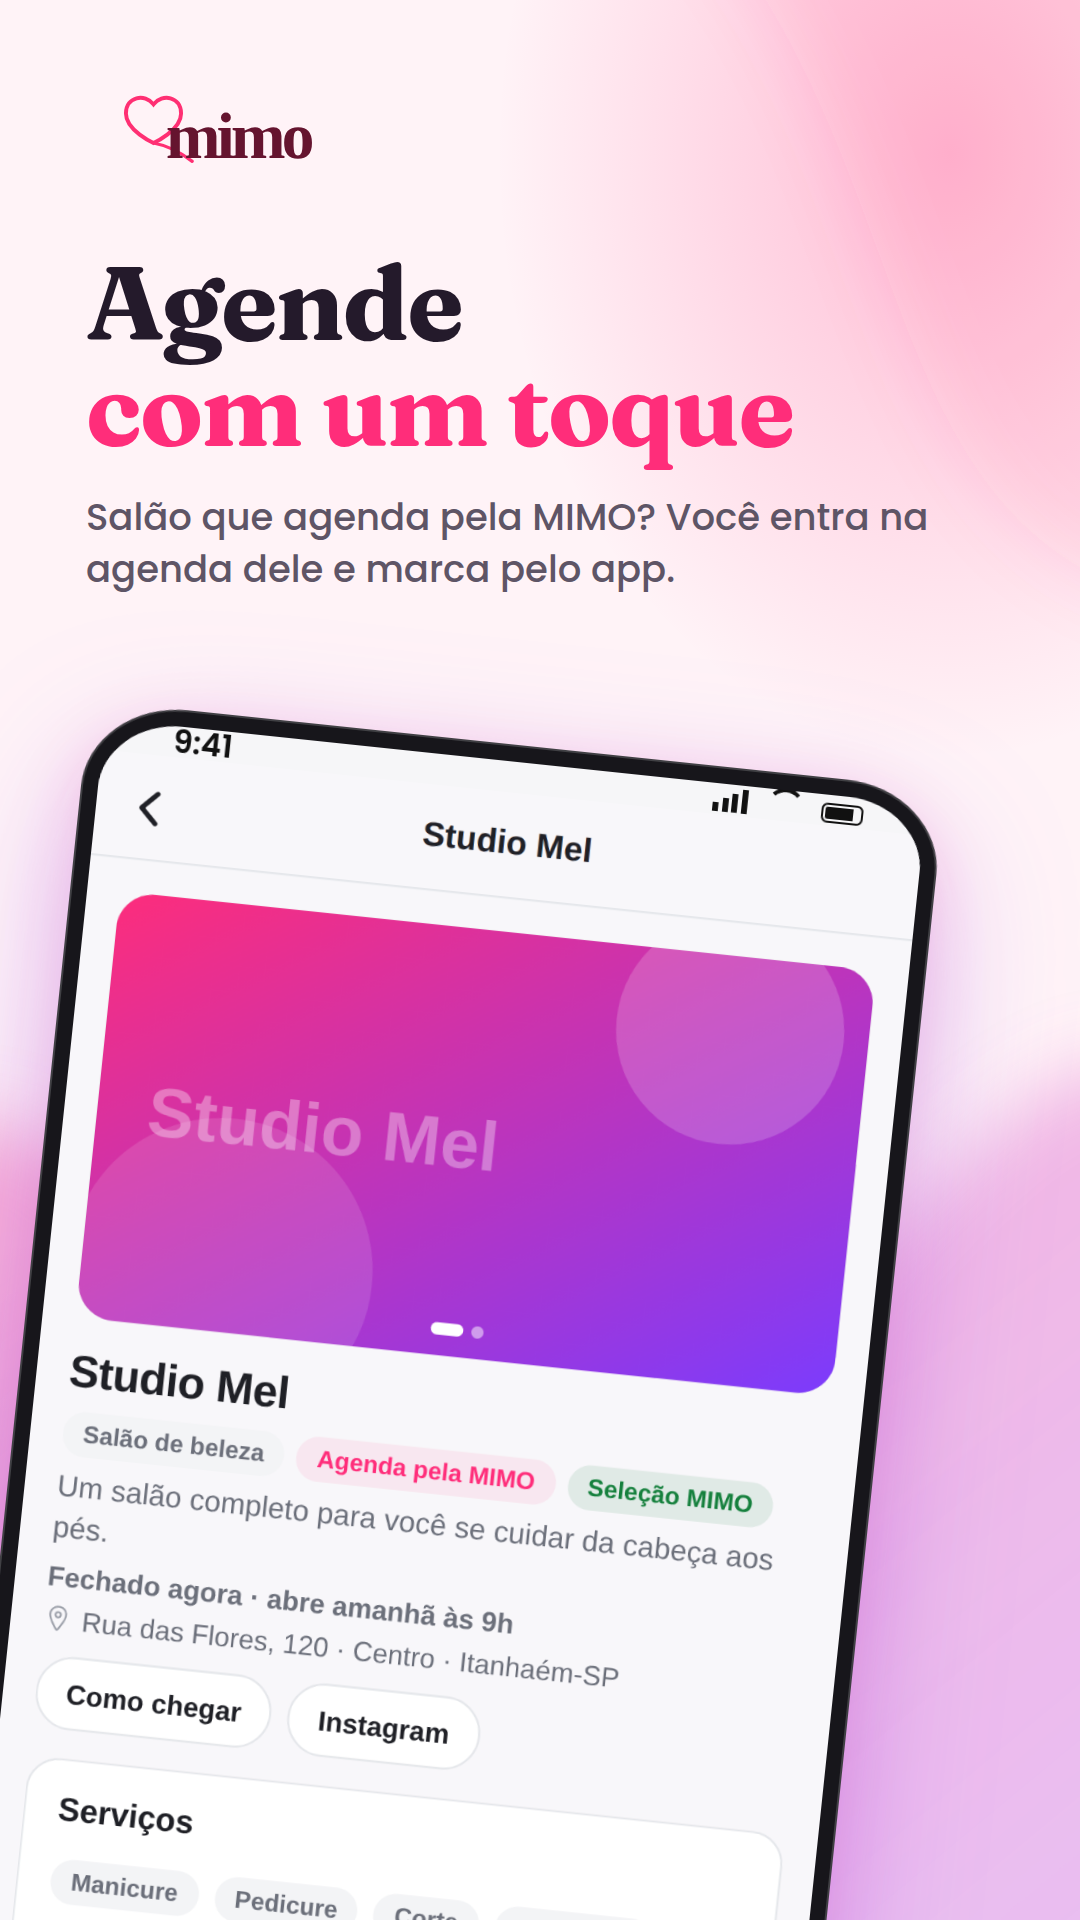
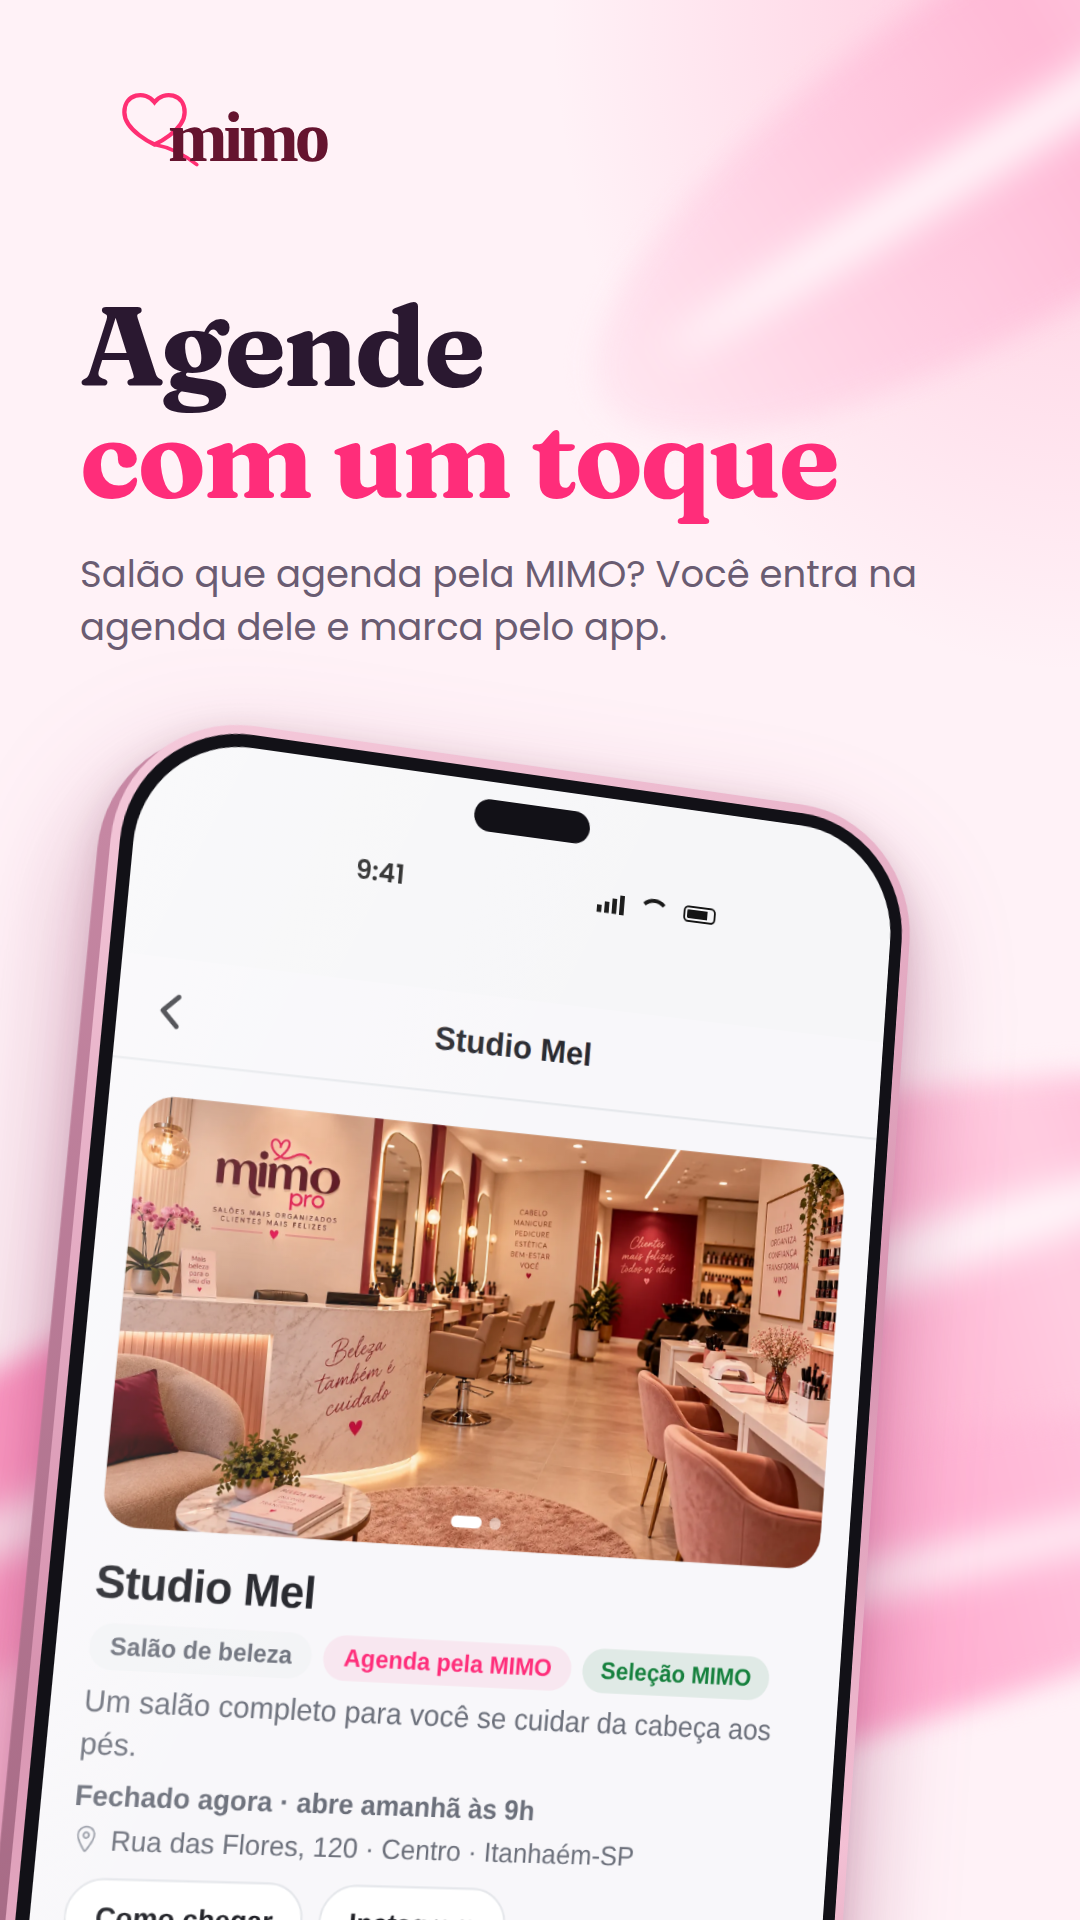
Ficha da Play Store: artes v3 (celular 3D, cetim rosa, fotos da marca nas telas)
Claude-Session: https://claude.ai/code/session_01Er2r92FxuJh6uLNZ2tZ5bH

diff --git a/apps/mobile/loja/descricao.md b/apps/mobile/loja/descricao.md
@@ -2,10 +2,11 @@
 
 Os arquivos desta pasta sobem na página "Detalhes do app" do Play Console.
 Gerados a partir das telas reais do app em modo demonstração (`EXPO_PUBLIC_DEMO=1 npx expo export -p web`,
-capturas em 405×720 a 8/3 de escala) e compostos com Playwright: fundo rosa-claro com manchas suaves,
-título em Fraunces com o destaque em rosa, texto em Poppins (a fonte da marca), o celular inclinado e
-cortado, a logo `public/mimo-logo.svg`. Para refazer depois de uma mudança de tela, os scripts estão no
-histórico desta entrega (3.64.1).
+capturas em 405×720 a 8/3 de escala, com as fotos da marca de `public/imagens` no lugar dos degradês da
+demonstração) e compostos com Playwright: fundo de cetim rosa, a logo `public/mimo-logo.svg`, título em
+Fraunces com a segunda linha em rosa, texto em Poppins (a fonte da marca), e um celular 3D (moldura rosé,
+ilha, barra de status, reflexo). Para refazer depois de uma mudança de tela, o script está no histórico
+desta entrega (3.64.1).
 
 | Arquivo | Onde vai | Exigência do Play |
 |---|---|---|
